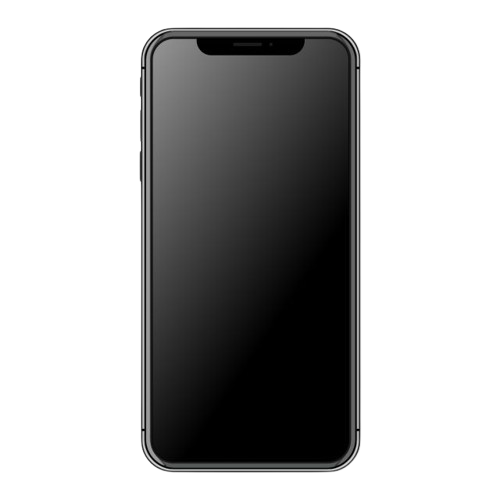
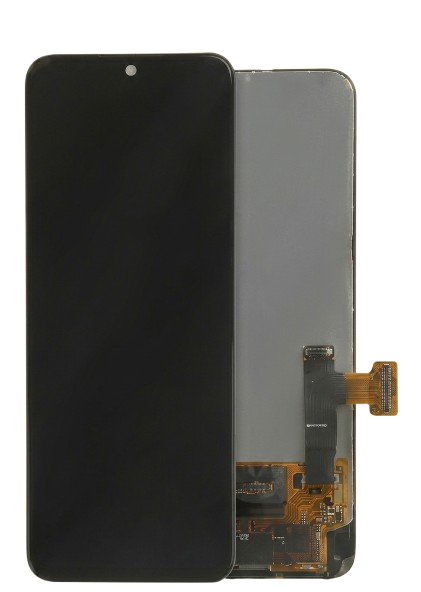
Deploying to main from @ omar0141/yallafix_client@486c1e60e7f278fde3fec39b0ef55065400af9c6 🚀

diff --git a/flutter_bootstrap.js b/flutter_bootstrap.js
@@ -37,6 +37,6 @@ _flutter.buildConfig = {"engineRevision":"42d3d75a56efe1a2e9902f52dc8006099c45d9
 
 _flutter.loader.load({
   serviceWorkerSettings: {
-    serviceWorkerVersion: "4140326868" /* Flutter's service worker is deprecated and will be removed in a future Flutter release. */
+    serviceWorkerVersion: "634135337" /* Flutter's service worker is deprecated and will be removed in a future Flutter release. */
   }
 });